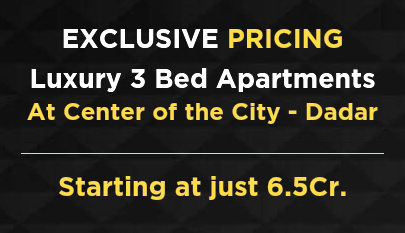
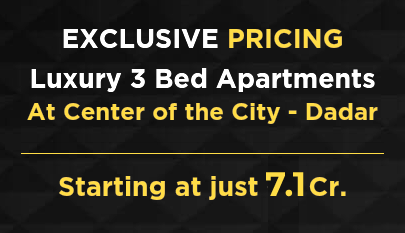
Kohinoor Altissimo Images updated

Changed region(s): [[0.6519, 0.721, 0.7704, 0.8412]]

diff --git a/projects/kohinoor/altissimo/index.html b/projects/kohinoor/altissimo/index.html
@@ -182,7 +182,7 @@
                   </h3>
                   <h1 class="text-center">
 
-                     Luxury 3 Bed Apartments,<span>starting at just 6.5Cr.
+                     Luxury 3 Bed Apartments,<span>starting at just 7.1Cr.
                      </span>
 
                   </h1>
